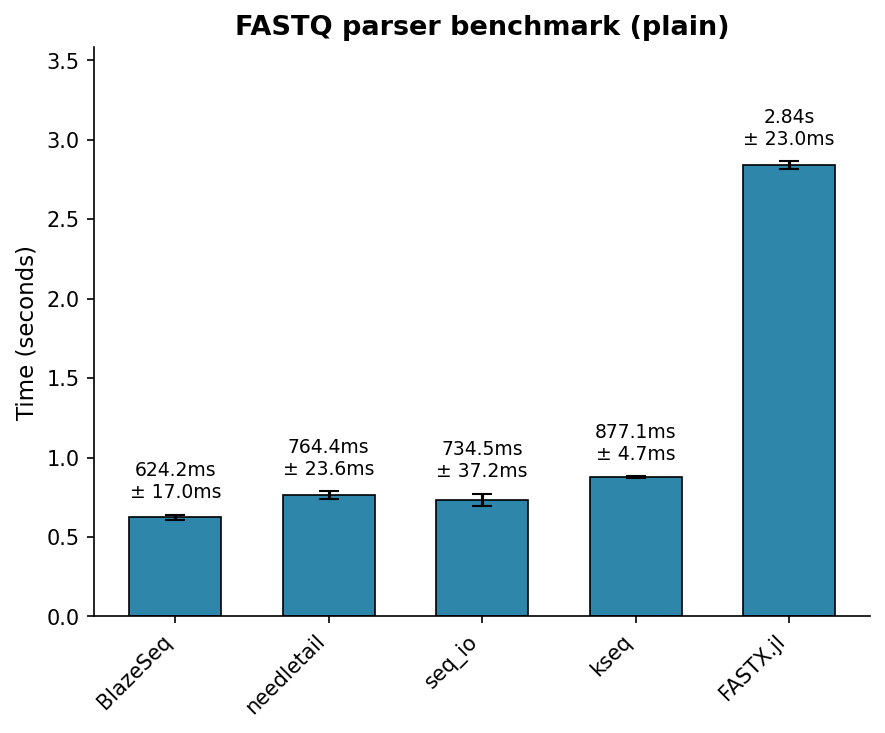
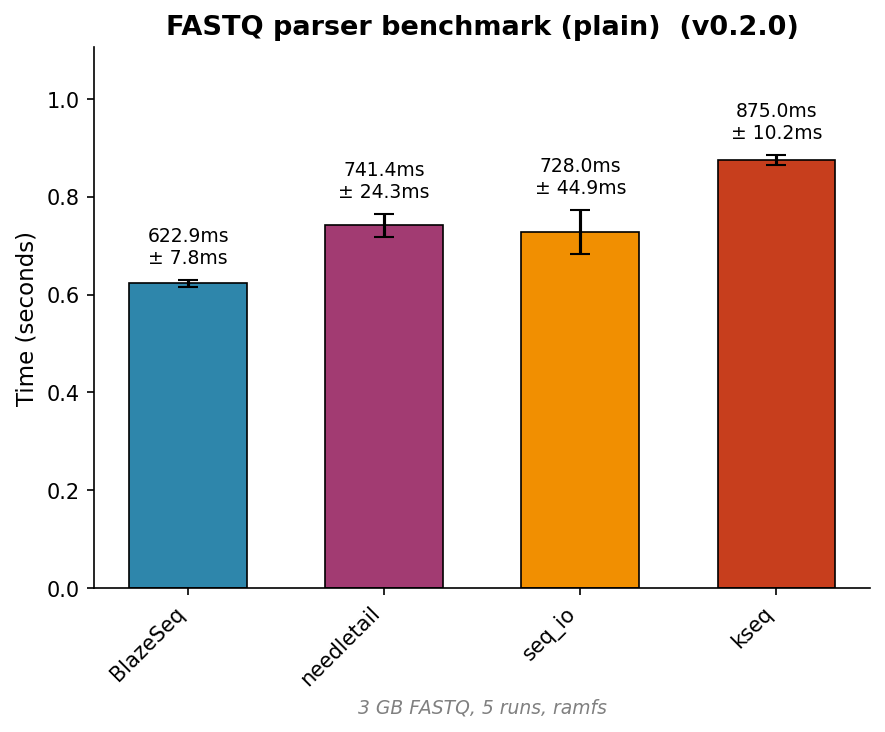
updated benchmarking

diff --git a/benchmark/scripts/plot_benchmark_results.py b/benchmark/scripts/plot_benchmark_results.py
@@ -4,17 +4,14 @@ Plot hyperfine benchmark results as column (bar) charts with error bars.
 
 Reads JSON exported by hyperfine (--export-json), produces one figure per file,
 and saves plots under the assets directory. Uses mean ± stddev for bars and
-annotations.
-
-Usage:
-  python plot_benchmark_results.py [--repo-root DIR] [--assets-dir DIR] [--json PATH ...]
-  If no --json paths are given, looks for standard benchmark JSON files under repo-root.
+annotations. For throughput benchmark, also generates a GB/s figure.
 """
 
 from __future__ import annotations
 
 import argparse
 import json
+import re
 import sys
 from pathlib import Path
 
@@ -34,6 +31,34 @@ DEFAULT_JSON_PATHS = [
     "benchmark_results_gzip.json",
     "benchmark/throughput_benchmark_results.json",
 ]
+
+# Distinct colors for each bar (one per benchmark)
+BAR_COLORS = [
+    "#2e86ab",
+    "#a23b72",
+    "#f18f01",
+    "#c73e1d",
+    "#3b1f2b",
+    "#95c623",
+    "#1b4965",
+    "#5c4d7d",
+]
+
+# Data size in GB for throughput calculation (parser and throughput benchmarks use 3 GB)
+DATA_SIZE_GB = 3.0
+
+
+def get_version(repo_root: Path) -> str:
+    """Read BlazeSeq version from pixi.toml."""
+    pixi = repo_root / "pixi.toml"
+    if not pixi.exists():
+        return "unknown"
+    try:
+        text = pixi.read_text(encoding="utf-8")
+        m = re.search(r'^version\s*=\s*["\']?([\d.]+)', text, re.MULTILINE)
+        return m.group(1) if m else "unknown"
+    except (OSError, AttributeError):
+        return "unknown"
 
 
 def load_hyperfine_json(path: Path) -> list[dict] | None:
@@ -56,14 +81,24 @@ def format_time(seconds: float) -> str:
     return f"{seconds * 1e6:.0f}µs"
 
 
+def setup_text_for_basename(basename: str) -> str:
+    """Short (3–5 word) test setup description for the graph."""
+    if basename in ("parser_plain", "parser_gzip"):
+        return "3 GB FASTQ, 5 runs, ramfs"
+    if basename == "throughput":
+        return "3 GB synthetic FASTQ, 5 runs"
+    return ""
+
+
 def plot_one(
     results: list[dict],
     title: str,
     out_path: Path,
     *,
     ylabel: str = "Time (seconds)",
-    bar_color: str = "#2e86ab",
     capsize: int = 5,
+    version: str = "",
+    setup_text: str = "",
 ) -> None:
     """Plot one benchmark result set as a column chart with error bars and annotations."""
     names = [r["command"] for r in results]
@@ -73,12 +108,18 @@ def plot_one(
     n = len(names)
     x = np.arange(n)
     width = 0.6
+    colors = [BAR_COLORS[i % len(BAR_COLORS)] for i in range(n)]
 
     fig, ax = plt.subplots(figsize=(max(6, n * 1.2), 5))
-    bars = ax.bar(x, means, width, yerr=stddevs, capsize=capsize, color=bar_color, edgecolor="black", linewidth=0.8)
+    bars = ax.bar(x, means, width, yerr=stddevs, capsize=capsize, color=colors, edgecolor="black", linewidth=0.8)
 
+    title_line = title
+    if version:
+        title_line += f"  (v{version})"
+    ax.set_title(title_line, fontsize=13, fontweight="bold")
+    if setup_text:
+        ax.set_xlabel(setup_text, fontsize=9, color="gray", style="italic")
     ax.set_ylabel(ylabel, fontsize=11)
-    ax.set_title(title, fontsize=13, fontweight="bold")
     ax.set_xticks(x)
     ax.set_xticklabels(names, rotation=45, ha="right")
     ax.spines["top"].set_visible(False)
@@ -101,6 +142,65 @@ def plot_one(
         )
 
     ax.set_ylim(0, max(means + stddevs) * 1.25 if len(means) else 1)
+    plt.tight_layout()
+    out_path.parent.mkdir(parents=True, exist_ok=True)
+    fig.savefig(out_path, dpi=150, bbox_inches="tight")
+    plt.close(fig)
+
+
+def plot_throughput_gbps(
+    results: list[dict],
+    data_size_gb: float,
+    out_path: Path,
+    *,
+    version: str = "",
+    setup_text: str = "",
+) -> None:
+    """Plot throughput in GB/s (data_size_gb / time_s) with error bars from time stddev."""
+    names = [r["command"] for r in results]
+    means_s = np.array([r["mean"] for r in results])
+    stddevs_s = np.array([r.get("stddev", 0.0) for r in results])
+
+    # GB/s = data_size_gb / time_s; uncertainty via delta method: d(rate) ≈ rate * (stddev/mean)
+    rates = data_size_gb / means_s
+    rate_errs = rates * (stddevs_s / means_s)
+
+    n = len(names)
+    x = np.arange(n)
+    width = 0.6
+    colors = [BAR_COLORS[i % len(BAR_COLORS)] for i in range(n)]
+
+    fig, ax = plt.subplots(figsize=(max(6, n * 1.2), 5))
+    ax.bar(x, rates, width, yerr=rate_errs, capsize=5, color=colors, edgecolor="black", linewidth=0.8)
+
+    title_line = "BlazeSeq throughput (GB/s)"
+    if version:
+        title_line += f"  (v{version})"
+    ax.set_title(title_line, fontsize=13, fontweight="bold")
+    if setup_text:
+        ax.set_xlabel(setup_text, fontsize=9, color="gray", style="italic")
+    ax.set_ylabel("Throughput (GB/s)", fontsize=11)
+    ax.set_xticks(x)
+    ax.set_xticklabels(names, rotation=45, ha="right")
+    ax.spines["top"].set_visible(False)
+    ax.spines["right"].set_visible(False)
+
+    for i, (rate, err) in enumerate(zip(rates, rate_errs)):
+        label = f"{rate:.2f}"
+        if err > 0:
+            label += f"\n± {err:.2f}"
+        ax.annotate(
+            label,
+            xy=(i, rate + err),
+            xytext=(0, 6),
+            textcoords="offset points",
+            ha="center",
+            va="bottom",
+            fontsize=9,
+            fontweight="medium",
+        )
+
+    ax.set_ylim(0, max(rates + rate_errs) * 1.25 if len(rates) else 1)
     plt.tight_layout()
     out_path.parent.mkdir(parents=True, exist_ok=True)
     fig.savefig(out_path, dpi=150, bbox_inches="tight")
@@ -145,6 +245,7 @@ def main() -> int:
     else:
         json_paths = [repo_root / rel for rel in DEFAULT_JSON_PATHS]
 
+    version = get_version(repo_root)
     plotted = 0
     for json_path in json_paths:
         if not json_path.exists():
@@ -155,10 +256,23 @@ def main() -> int:
             continue
         basename = output_basename(json_path)
         title = title_for_basename(basename)
+        setup_text = setup_text_for_basename(basename)
         out_path = assets_dir / f"{basename}.png"
-        plot_one(results, title, out_path)
+        plot_one(results, title, out_path, version=version, setup_text=setup_text)
         print(f"Wrote {out_path}")
         plotted += 1
+        # Throughput benchmark: also generate GB/s figure
+        if basename == "throughput":
+            gbps_path = assets_dir / "throughput_gbps.png"
+            plot_throughput_gbps(
+                results,
+                DATA_SIZE_GB,
+                gbps_path,
+                version=version,
+                setup_text=setup_text,
+            )
+            print(f"Wrote {gbps_path}")
+            plotted += 1
 
     if plotted == 0:
         print("No benchmark JSON files found or plotted.", file=sys.stderr)

diff --git a/benchmark/fastq-parser/Benchmarking.md b/benchmark/fastq-parser/Benchmarking.md
@@ -113,7 +113,7 @@ All parsers are run on the same file; the script checks that they report the sam
 After running any benchmark, you can generate **column plots with error bars** from the hyperfine JSON output. Plots are written to the `assets/` directory at the repository root.
 
 - **Script**: `benchmark/scripts/plot_benchmark_results.py`
-- **Output**: PNG files in `assets/` (e.g. `parser_plain.png`, `parser_gzip.png`, `throughput.png`)
+- **Output**: PNG files in `assets/` (e.g. `parser_plain.png`, `parser_gzip.png`, `throughput.png`, and for the throughput benchmark also `throughput_gbps.png` with parsing speed in GB/s). Plots include version (from `pixi.toml`), per-bar colors, and a short test-setup note.
 
 When you run the benchmark scripts (plain, gzip, or throughput) with the pixi benchmark environment, plotting is run automatically after hyperfine if Python and matplotlib are available. You can also plot existing results without re-running benchmarks:
 
